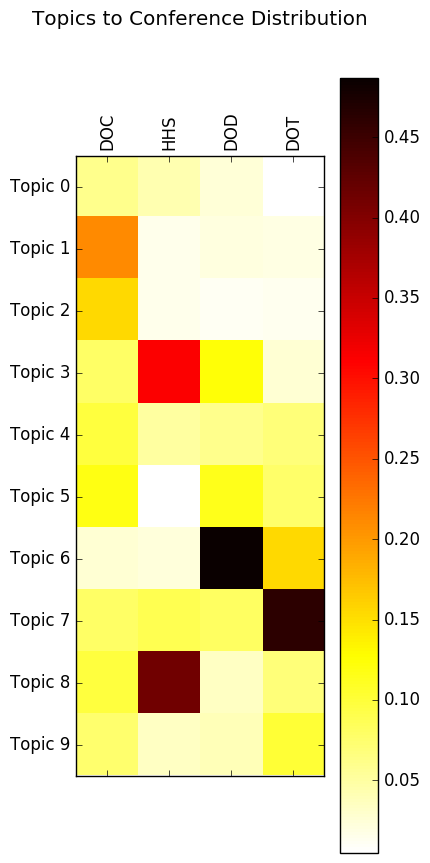
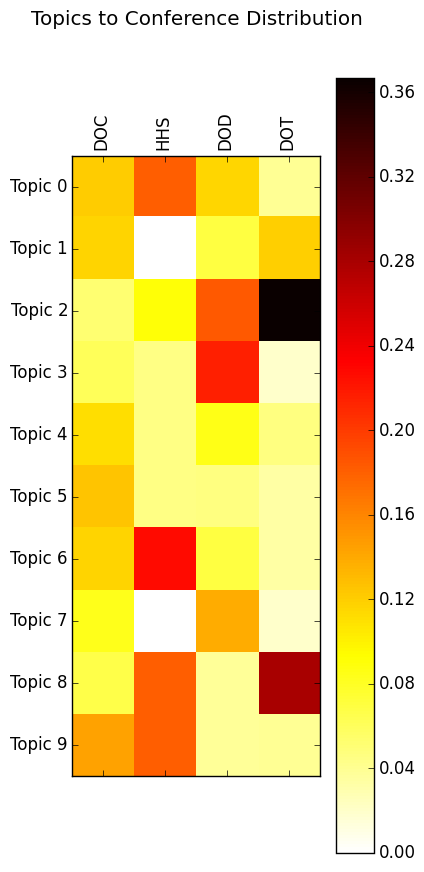
Only abstracts

diff --git a/doc_parser.py b/doc_parser.py
@@ -119,9 +119,10 @@ class Document(O):
       return pickle.load(f)
 
   def get_raw(self):
-    if self.content is not None:
-      return self.content
-    elif self.abstract is not None:
+    # if self.content is not None:
+    #   return self.content
+    # el
+    if self.abstract is not None:
       return self.abstract
     else:
       return self.title
